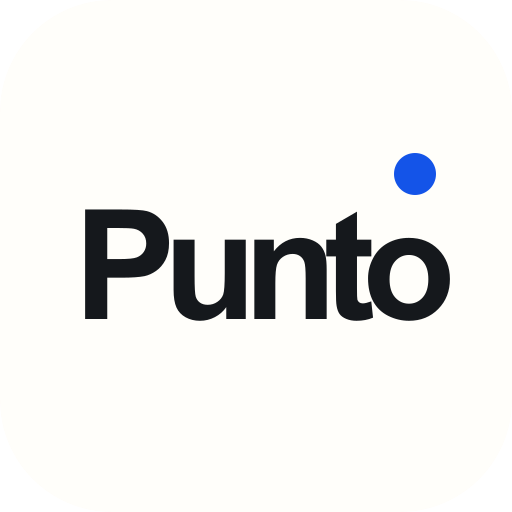
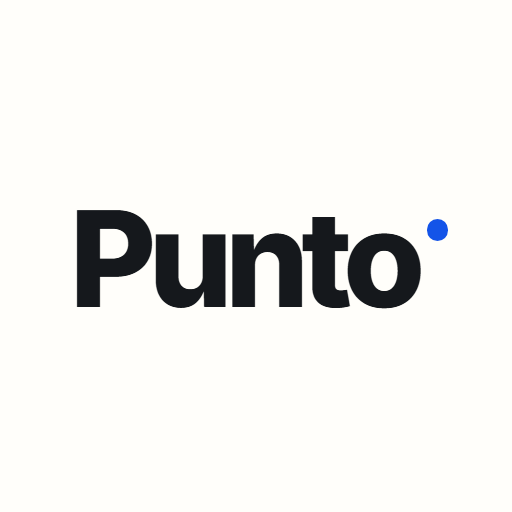
Enlaces cortos, vista previa OG, ícono centrado y Google Maps con destino
- Enlace para compartir: solo el código (#PS1ZTJQEW); los datos salen de Supabase.
- Mensaje de dos líneas: nombre y código, más el enlace.
- Imagen og.png 1200x630 para WhatsApp y redes.
- Ícono de la app centrado y dentro del área segura de recorte.
- Google Maps abre el pin exacto (search?query=lat,lng).

Changed region(s): [[0.125, 0.4062, 0.9062, 0.625], [0.75, 0.2812, 0.875, 0.4062]]

diff --git a/app.js b/app.js
@@ -123,25 +123,13 @@
     }
   }
 
-  function placeHash(p) {
-    const q = new URLSearchParams();
-    if (p.name) q.set('n', p.name);
-    if (p.type && TYPES[p.type]) q.set('t', p.type);
-    if (p.unit) q.set('u', p.unit);
-    if (p.ref) q.set('r', p.ref);
-    if (p.area) q.set('a', p.area);
-    const query = q.toString();
-    return `#/p/${p.code}${query ? '?' + query : ''}`;
-  }
-  // Los datos van después de "#": el servidor nunca recibe nombre ni referencia.
+  // Enlace corto: solo el código (y la unidad si varios lugares comparten entrada).
+  // Nombre y referencia se buscan en Supabase, así el enlace no los expone.
+  const placeHash = (p) => `#${p.code}${p.unit ? '?u=' + encodeURIComponent(p.unit) : ''}`;
   const placeURL = (p) => `${location.origin}${location.pathname}${placeHash(p)}`;
 
-  function shareText(p) {
-    const lines = [`📍 ${p.name || 'Mi Punto'}`, `Código Punto: ${C.format(p.code)}`];
-    if (p.unit) lines.push(p.unit);
-    if (p.ref) lines.push(`Referencia: ${p.ref}`);
-    return lines.join('\n');
-  }
+  const shareTitle = (p) => [p.name || 'Mi Punto', p.unit].filter(Boolean).join(' · ');
+  const shareText = (p) => `📍 ${shareTitle(p)} · ${C.format(p.code)}`;
 
   async function copy(text, okMessage) {
     try {
@@ -160,8 +148,11 @@
     }
   }
 
-  const gmapsURL = (p) => `https://www.google.com/maps/dir/?api=1&destination=${p.lat},${p.lng}`;
-  const wazeURL = (p) => `https://waze.com/ul?ll=${p.lat},${p.lng}&navigate=yes`;
+  // "search" abre el pin exacto tanto en la app de Google Maps como en la web;
+  // desde ahí "Cómo llegar" ya conoce el destino.
+  const latLng = (p) => `${p.lat.toFixed(6)},${p.lng.toFixed(6)}`;
+  const gmapsURL = (p) => `https://www.google.com/maps/search/?api=1&query=${latLng(p)}`;
+  const wazeURL = (p) => `https://waze.com/ul?ll=${latLng(p)}&navigate=yes`;
 
   /* ---------- Nombres de zona (OpenStreetMap / Nominatim) ---------- */
 
@@ -570,7 +561,17 @@
 
   function parseRoute() {
     const [path, query = ''] = location.hash.slice(1).split('?');
-    if (path.startsWith('/p/')) {
+    if (/^[0-9a-z]{9}$/i.test(path)) {
+      const decoded = C.decode(path);
+      if (decoded.error) return { screen: 'welcome', codeError: decoded.error };
+      const unit = (new URLSearchParams(query).get('u') || '').slice(0, 30);
+      const at = { code: decoded.code, lat: decoded.lat, lng: decoded.lng };
+      const same = (p) => p.code === decoded.code && (p.unit || '').toLowerCase() === unit.toLowerCase();
+      const saved = myPlaces().find(same) || (!unit && myPlaces().find((p) => p.code === decoded.code));
+      if (saved) return { screen: 'resultStep', place: { ...saved, ...at } };
+      return { screen: 'resultStep', place: { ...at, name: '', type: '', unit, ref: '', area: '' } };
+    }
+    if (path.startsWith('/p/')) { // enlaces largos anteriores
       const decoded = C.decode(decodeURIComponent(path.slice(3)));
       if (decoded.error) return { screen: 'welcome', codeError: decoded.error };
       const q = new URLSearchParams(query);
@@ -641,6 +642,8 @@
       return;
     }
     const withCoords = found.map((f) => ({ ...f, lat: p.lat, lng: p.lng }));
+    const exact = p.unit && withCoords.find((f) => f.unit.toLowerCase() === p.unit.toLowerCase());
+    if (exact) { renderResult(exact); return; }
     if (withCoords.length === 1) { renderResult(withCoords[0]); return; }
     // Varios lugares comparten la entrada (apartamentos, locales): se elige uno.
     renderResult(withCoords[0]);
@@ -661,12 +664,12 @@
     e.preventDefault();
     const value = $('codeInput').value.trim();
     if (!value) { $('codeError').textContent = 'Escribe el código que te enviaron.'; return; }
-    const linkHash = value.match(/#\/p\/.+$/); // también acepta el enlace completo pegado
+    const linkHash = value.match(/#(\/p\/.+|[0-9a-z]{9}(\?.*)?)$/i); // también acepta el enlace completo pegado
     const decoded = linkHash ? null : C.decode(value);
     if (decoded?.error) { $('codeError').textContent = decoded.error; return; }
     $('codeInput').value = '';
     closeSheets();
-    go(linkHash ? linkHash[0] : `#/p/${decoded.code}`);
+    go(linkHash ? linkHash[0] : `#${decoded.code}`);
   });
   $('codeInput').addEventListener('input', () => { $('codeError').textContent = ''; });
 
@@ -727,7 +730,7 @@
   $('share').addEventListener('click', async () => {
     const p = state.current;
     if (navigator.share) {
-      try { await navigator.share({ title: p.name || 'Mi Punto', text: shareText(p), url: placeURL(p) }); return; }
+      try { await navigator.share({ title: shareTitle(p), text: shareText(p), url: placeURL(p) }); return; }
       catch (err) { if (err.name === 'AbortError') return; }
     }
     copy(`${shareText(p)}\n${placeURL(p)}`, 'Dirección copiada para compartir');
@@ -738,7 +741,7 @@
   const menuAction = (id, fn) => $(id).addEventListener('click', () => { toggleMenu(false); fn(state.current); });
   menuAction('mCopyCode', (p) => copy(C.format(p.code), 'Código copiado'));
   menuAction('mCopyLink', (p) => copy(placeURL(p), 'Enlace copiado'));
-  menuAction('mWhatsapp', (p) => window.open(`https://wa.me/?text=${encodeURIComponent(`${shareText(p)}\n\n${placeURL(p)}`)}`, '_blank', 'noopener'));
+  menuAction('mWhatsapp', (p) => window.open(`https://wa.me/?text=${encodeURIComponent(`${shareText(p)}\n${placeURL(p)}`)}`, '_blank', 'noopener'));
   menuAction('mGmaps', (p) => window.open(gmapsURL(p), '_blank', 'noopener'));
   menuAction('mWaze', (p) => window.open(wazeURL(p), '_blank', 'noopener'));
   menuAction('mPlaque', (p) => downloadPlaque(p).catch(() => notify('No se pudo crear la placa')));

diff --git a/dist/app.js b/dist/app.js
@@ -123,25 +123,13 @@
     }
   }
 
-  function placeHash(p) {
-    const q = new URLSearchParams();
-    if (p.name) q.set('n', p.name);
-    if (p.type && TYPES[p.type]) q.set('t', p.type);
-    if (p.unit) q.set('u', p.unit);
-    if (p.ref) q.set('r', p.ref);
-    if (p.area) q.set('a', p.area);
-    const query = q.toString();
-    return `#/p/${p.code}${query ? '?' + query : ''}`;
-  }
-  // Los datos van después de "#": el servidor nunca recibe nombre ni referencia.
+  // Enlace corto: solo el código (y la unidad si varios lugares comparten entrada).
+  // Nombre y referencia se buscan en Supabase, así el enlace no los expone.
+  const placeHash = (p) => `#${p.code}${p.unit ? '?u=' + encodeURIComponent(p.unit) : ''}`;
   const placeURL = (p) => `${location.origin}${location.pathname}${placeHash(p)}`;
 
-  function shareText(p) {
-    const lines = [`📍 ${p.name || 'Mi Punto'}`, `Código Punto: ${C.format(p.code)}`];
-    if (p.unit) lines.push(p.unit);
-    if (p.ref) lines.push(`Referencia: ${p.ref}`);
-    return lines.join('\n');
-  }
+  const shareTitle = (p) => [p.name || 'Mi Punto', p.unit].filter(Boolean).join(' · ');
+  const shareText = (p) => `📍 ${shareTitle(p)} · ${C.format(p.code)}`;
 
   async function copy(text, okMessage) {
     try {
@@ -160,8 +148,11 @@
     }
   }
 
-  const gmapsURL = (p) => `https://www.google.com/maps/dir/?api=1&destination=${p.lat},${p.lng}`;
-  const wazeURL = (p) => `https://waze.com/ul?ll=${p.lat},${p.lng}&navigate=yes`;
+  // "search" abre el pin exacto tanto en la app de Google Maps como en la web;
+  // desde ahí "Cómo llegar" ya conoce el destino.
+  const latLng = (p) => `${p.lat.toFixed(6)},${p.lng.toFixed(6)}`;
+  const gmapsURL = (p) => `https://www.google.com/maps/search/?api=1&query=${latLng(p)}`;
+  const wazeURL = (p) => `https://waze.com/ul?ll=${latLng(p)}&navigate=yes`;
 
   /* ---------- Nombres de zona (OpenStreetMap / Nominatim) ---------- */
 
@@ -570,7 +561,17 @@
 
   function parseRoute() {
     const [path, query = ''] = location.hash.slice(1).split('?');
-    if (path.startsWith('/p/')) {
+    if (/^[0-9a-z]{9}$/i.test(path)) {
+      const decoded = C.decode(path);
+      if (decoded.error) return { screen: 'welcome', codeError: decoded.error };
+      const unit = (new URLSearchParams(query).get('u') || '').slice(0, 30);
+      const at = { code: decoded.code, lat: decoded.lat, lng: decoded.lng };
+      const same = (p) => p.code === decoded.code && (p.unit || '').toLowerCase() === unit.toLowerCase();
+      const saved = myPlaces().find(same) || (!unit && myPlaces().find((p) => p.code === decoded.code));
+      if (saved) return { screen: 'resultStep', place: { ...saved, ...at } };
+      return { screen: 'resultStep', place: { ...at, name: '', type: '', unit, ref: '', area: '' } };
+    }
+    if (path.startsWith('/p/')) { // enlaces largos anteriores
       const decoded = C.decode(decodeURIComponent(path.slice(3)));
       if (decoded.error) return { screen: 'welcome', codeError: decoded.error };
       const q = new URLSearchParams(query);
@@ -641,6 +642,8 @@
       return;
     }
     const withCoords = found.map((f) => ({ ...f, lat: p.lat, lng: p.lng }));
+    const exact = p.unit && withCoords.find((f) => f.unit.toLowerCase() === p.unit.toLowerCase());
+    if (exact) { renderResult(exact); return; }
     if (withCoords.length === 1) { renderResult(withCoords[0]); return; }
     // Varios lugares comparten la entrada (apartamentos, locales): se elige uno.
     renderResult(withCoords[0]);
@@ -661,12 +664,12 @@
     e.preventDefault();
     const value = $('codeInput').value.trim();
     if (!value) { $('codeError').textContent = 'Escribe el código que te enviaron.'; return; }
-    const linkHash = value.match(/#\/p\/.+$/); // también acepta el enlace completo pegado
+    const linkHash = value.match(/#(\/p\/.+|[0-9a-z]{9}(\?.*)?)$/i); // también acepta el enlace completo pegado
     const decoded = linkHash ? null : C.decode(value);
     if (decoded?.error) { $('codeError').textContent = decoded.error; return; }
     $('codeInput').value = '';
     closeSheets();
-    go(linkHash ? linkHash[0] : `#/p/${decoded.code}`);
+    go(linkHash ? linkHash[0] : `#${decoded.code}`);
   });
   $('codeInput').addEventListener('input', () => { $('codeError').textContent = ''; });
 
@@ -727,7 +730,7 @@
   $('share').addEventListener('click', async () => {
     const p = state.current;
     if (navigator.share) {
-      try { await navigator.share({ title: p.name || 'Mi Punto', text: shareText(p), url: placeURL(p) }); return; }
+      try { await navigator.share({ title: shareTitle(p), text: shareText(p), url: placeURL(p) }); return; }
       catch (err) { if (err.name === 'AbortError') return; }
     }
     copy(`${shareText(p)}\n${placeURL(p)}`, 'Dirección copiada para compartir');
@@ -738,7 +741,7 @@
   const menuAction = (id, fn) => $(id).addEventListener('click', () => { toggleMenu(false); fn(state.current); });
   menuAction('mCopyCode', (p) => copy(C.format(p.code), 'Código copiado'));
   menuAction('mCopyLink', (p) => copy(placeURL(p), 'Enlace copiado'));
-  menuAction('mWhatsapp', (p) => window.open(`https://wa.me/?text=${encodeURIComponent(`${shareText(p)}\n\n${placeURL(p)}`)}`, '_blank', 'noopener'));
+  menuAction('mWhatsapp', (p) => window.open(`https://wa.me/?text=${encodeURIComponent(`${shareText(p)}\n${placeURL(p)}`)}`, '_blank', 'noopener'));
   menuAction('mGmaps', (p) => window.open(gmapsURL(p), '_blank', 'noopener'));
   menuAction('mWaze', (p) => window.open(wazeURL(p), '_blank', 'noopener'));
   menuAction('mPlaque', (p) => downloadPlaque(p).catch(() => notify('No se pudo crear la placa')));

diff --git a/dist/index.html b/dist/index.html
@@ -8,9 +8,19 @@
   <meta name="apple-mobile-web-app-status-bar-style" content="default">
   <meta name="description" content="Dale una dirección digital a tu lugar. Fácil de compartir. Siempre te encuentra.">
   <meta name="referrer" content="strict-origin">
+  <meta property="og:type" content="website">
+  <meta property="og:site_name" content="Punto">
+  <meta property="og:title" content="Punto · Tu dirección digital">
+  <meta property="og:description" content="Abre el enlace para ver el punto exacto y cómo llegar.">
+  <meta property="og:image" content="https://punto-omega.vercel.app/assets/og.png">
+  <meta property="og:image:width" content="1200">
+  <meta property="og:image:height" content="630">
+  <meta property="og:image:alt" content="Punto: dale una dirección digital a tu lugar">
+  <meta name="twitter:card" content="summary_large_image">
+  <meta name="twitter:image" content="https://punto-omega.vercel.app/assets/og.png">
   <title>Punto · Tu dirección digital</title>
   <link rel="manifest" href="manifest.webmanifest">
-  <link rel="icon" href="assets/icon.svg" type="image/svg+xml">
+  <link rel="icon" href="assets/icon-192.png" type="image/png">
   <link rel="apple-touch-icon" href="assets/icon-180.png">
   <link rel="preconnect" href="https://fonts.googleapis.com">
   <link rel="preconnect" href="https://fonts.gstatic.com" crossorigin>

diff --git a/index.html b/index.html
@@ -8,9 +8,19 @@
   <meta name="apple-mobile-web-app-status-bar-style" content="default">
   <meta name="description" content="Dale una dirección digital a tu lugar. Fácil de compartir. Siempre te encuentra.">
   <meta name="referrer" content="strict-origin">
+  <meta property="og:type" content="website">
+  <meta property="og:site_name" content="Punto">
+  <meta property="og:title" content="Punto · Tu dirección digital">
+  <meta property="og:description" content="Abre el enlace para ver el punto exacto y cómo llegar.">
+  <meta property="og:image" content="https://punto-omega.vercel.app/assets/og.png">
+  <meta property="og:image:width" content="1200">
+  <meta property="og:image:height" content="630">
+  <meta property="og:image:alt" content="Punto: dale una dirección digital a tu lugar">
+  <meta name="twitter:card" content="summary_large_image">
+  <meta name="twitter:image" content="https://punto-omega.vercel.app/assets/og.png">
   <title>Punto · Tu dirección digital</title>
   <link rel="manifest" href="manifest.webmanifest">
-  <link rel="icon" href="assets/icon.svg" type="image/svg+xml">
+  <link rel="icon" href="assets/icon-192.png" type="image/png">
   <link rel="apple-touch-icon" href="assets/icon-180.png">
   <link rel="preconnect" href="https://fonts.googleapis.com">
   <link rel="preconnect" href="https://fonts.gstatic.com" crossorigin>

diff --git a/dist/sw.js b/dist/sw.js
@@ -1,9 +1,9 @@
 // Guarda la app para que abra sin conexión. Los mosaicos del mapa y las búsquedas
 // siempre van a la red; el código Punto se decodifica en el teléfono.
-const CACHE = 'punto-v5';
+const CACHE = 'punto-v6';
 const APP_FILES = [
   './', 'index.html', 'style.css', 'app.js', 'code.js', 'config.js', 'manifest.webmanifest',
-  'assets/avila.png', 'assets/firma.png', 'assets/icon.svg', 'assets/icon-180.png', 'assets/icon-192.png', 'assets/icon-512.png',
+  'assets/avila.png', 'assets/firma.png', 'assets/og.png', 'assets/icon-180.png', 'assets/icon-192.png', 'assets/icon-512.png',
   'assets/leaflet.css', 'assets/leaflet.js', 'assets/qrcode.js'
 ];
 

diff --git a/sw.js b/sw.js
@@ -1,9 +1,9 @@
 // Guarda la app para que abra sin conexión. Los mosaicos del mapa y las búsquedas
 // siempre van a la red; el código Punto se decodifica en el teléfono.
-const CACHE = 'punto-v5';
+const CACHE = 'punto-v6';
 const APP_FILES = [
   './', 'index.html', 'style.css', 'app.js', 'code.js', 'config.js', 'manifest.webmanifest',
-  'assets/avila.png', 'assets/firma.png', 'assets/icon.svg', 'assets/icon-180.png', 'assets/icon-192.png', 'assets/icon-512.png',
+  'assets/avila.png', 'assets/firma.png', 'assets/og.png', 'assets/icon-180.png', 'assets/icon-192.png', 'assets/icon-512.png',
   'assets/leaflet.css', 'assets/leaflet.js', 'assets/qrcode.js'
 ];
 
